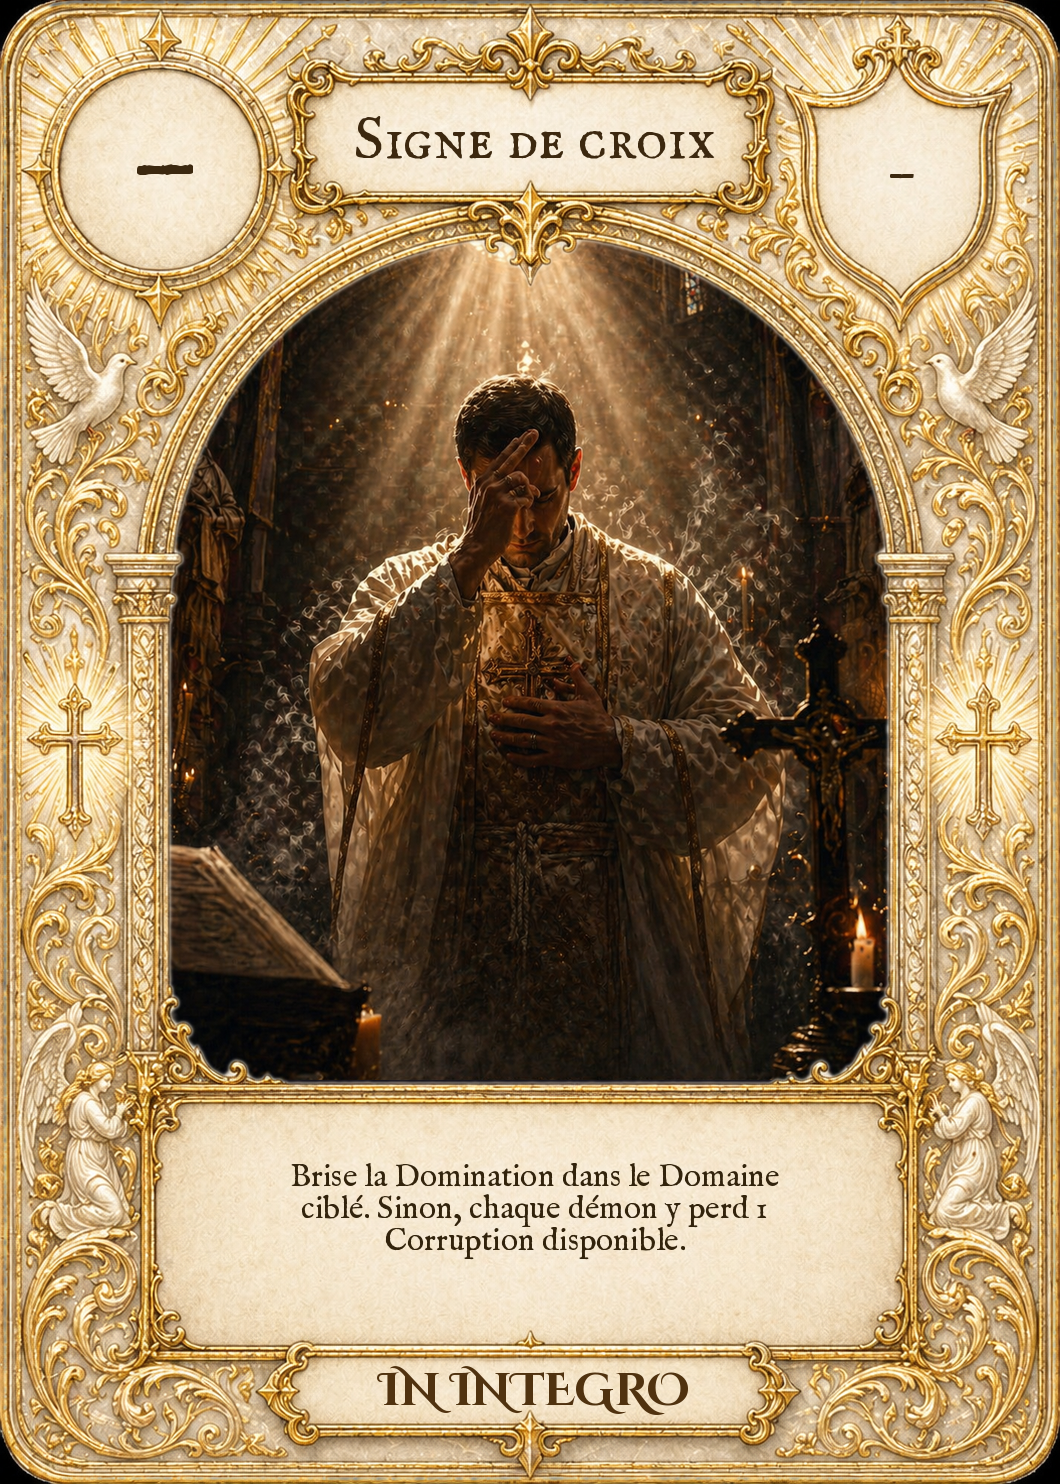
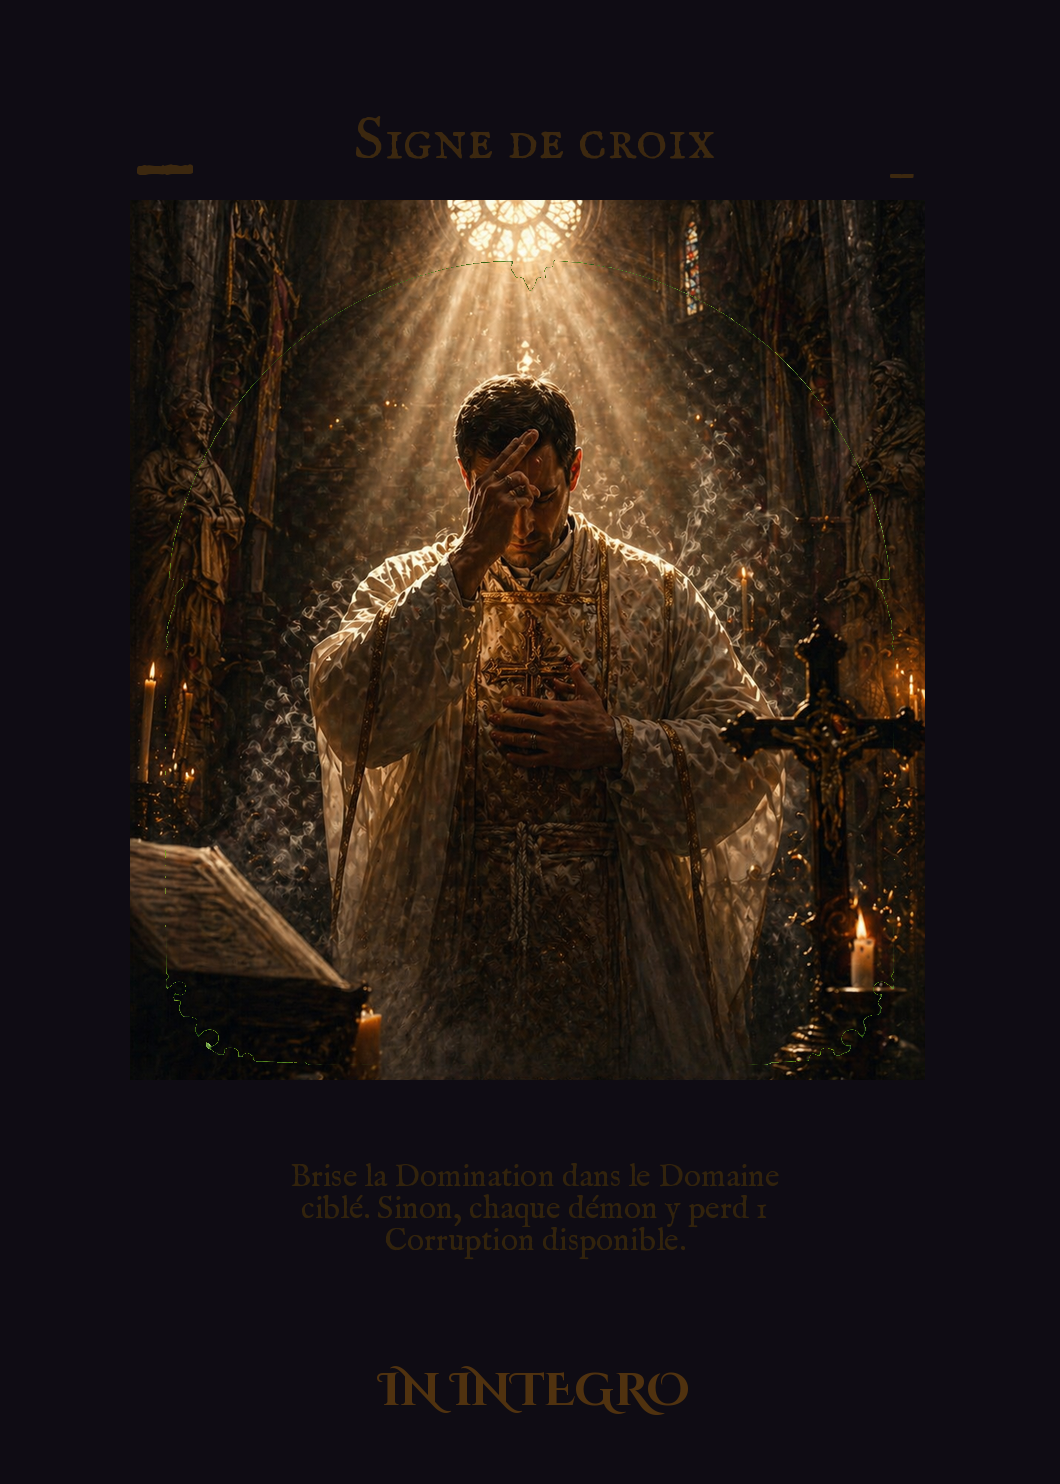
Templates v3 chroma-key vert + nouveau pipeline d'extraction
Templates regénérés par ChatGPT avec fond #00FF00 dans l'arche.

Pipeline simplifié : alpha = clip((150-greenness)*255/100, 0, 255)

+ spill suppression standard (réduit le G résiduel sur les bords).

Anti-aliasing automatique grâce au gradient de couleur en bord d'arche.

https://claude.ai/code/session_011baaC7zEExbd5eSjuzVu4k

diff --git a/tools/extract_arch_alpha.py b/tools/extract_arch_alpha.py
@@ -1,13 +1,11 @@
 #!/usr/bin/env python3
 """
-Convert ChatGPT-generated card templates into RGBA via color keying:
-1. Detect the arch parchment region as a connected component.
-2. Sample the median (key) color of that region.
-3. For each pixel inside the region, alpha is proportional to the
-   euclidean color distance from the key — pixels matching the key
-   are transparent, ornaments (saturated/dark/colored) stay opaque,
-   and intermediate pixels get a graduated semi-transparency.
-4. A 1.5 px gaussian blur on the alpha mask softens the edge.
+Chroma-key extraction: ChatGPT generated the templates with a pure green
+(#00FF00) fill in the arch. We compute a "greenness" score per pixel
+(G - max(R, B)) — pure chroma green = 255, parchment / gold / red ornaments
+= negative — and convert it to alpha. Edges get anti-aliasing for free
+because the green spills slightly into the surrounding ornament during
+rendering.
 
 Usage:
     python3 tools/extract_arch_alpha.py <input.png> <output.png>
@@ -15,67 +13,32 @@ Usage:
 import sys
 from PIL import Image
 import numpy as np
-from scipy.ndimage import label, binary_closing, gaussian_filter
-
-SEARCH_Y = (0.13, 0.74)
-SEARCH_X = (0.13, 0.87)
-CLOSING_ITER = 6
-DIST_TRANSPARENT = 25
-DIST_OPAQUE = 80
-EDGE_BLUR_SIGMA = 1.5
 
 
 def process(in_path: str, out_path: str) -> None:
     img = Image.open(in_path).convert("RGBA")
-    w, h = img.size
     arr = np.array(img).astype(np.int16)
-    R, G, B = arr[:, :, 0], arr[:, :, 1], arr[:, :, 2]
-    maxc = np.maximum(np.maximum(R, G), B)
-    minc = np.minimum(np.minimum(R, G), B)
-    desat = maxc - minc
-    lum = (R + G + B) / 3.0
+    R = arr[:, :, 0]
+    G = arr[:, :, 1]
+    B = arr[:, :, 2]
 
-    parchment = (
-        (R > 165) & (G > 145) & (B > 110)
-        & (R - B > 15) & (R - B < 110)
-        & (lum > 160) & (lum < 248)
-        & (desat < 90)
-    )
-    box = np.zeros_like(parchment, dtype=bool)
-    y0, y1 = int(h * SEARCH_Y[0]), int(h * SEARCH_Y[1])
-    x0, x1 = int(w * SEARCH_X[0]), int(w * SEARCH_X[1])
-    box[y0:y1, x0:x1] = parchment[y0:y1, x0:x1]
-    labeled, _ = label(box)
-    cy, cx = h // 2, w // 2
-    seed = labeled[cy, cx]
-    if seed == 0:
-        for dy in range(0, h, 20):
-            for dx in range(-w // 4, w // 4, 20):
-                yy = cy + dy
-                xx = cx + dx
-                if 0 <= yy < h and 0 <= xx < w and labeled[yy, xx] != 0:
-                    seed = labeled[yy, xx]
-                    break
-            if seed:
-                break
-    arch_zone = labeled == seed if seed else np.zeros_like(labeled, dtype=bool)
-    arch_zone = ~binary_closing(~arch_zone, iterations=CLOSING_ITER)
+    # Greenness: how much green dominates over the brighter of R or B.
+    # Pure #00FF00 → 255, gold (200,160,40) → 160-200=-40, etc.
+    greenness = G - np.maximum(R, B)
 
-    if arch_zone.any():
-        key_R = float(np.median(R[arch_zone]))
-        key_G = float(np.median(G[arch_zone]))
-        key_B = float(np.median(B[arch_zone]))
-    else:
-        key_R, key_G, key_B = 220, 200, 175
+    # Alpha curve:
+    #   greenness >= 150 → α=0   (pure green)
+    #   greenness <= 50  → α=255 (no green domination)
+    #   between          → linear (anti-alias on edges)
+    alpha = np.clip((150 - greenness) * 255 / 100, 0, 255).astype(np.uint8)
 
-    dist = np.sqrt((R - key_R) ** 2 + (G - key_G) ** 2 + (B - key_B) ** 2)
-    alpha_from_dist = np.clip(
-        (dist - DIST_TRANSPARENT) / (DIST_OPAQUE - DIST_TRANSPARENT) * 255,
-        0, 255,
-    )
-    alpha = np.where(arch_zone, alpha_from_dist, 255).astype(np.float32)
-    alpha = gaussian_filter(alpha, sigma=EDGE_BLUR_SIGMA)
-    alpha = np.clip(alpha, 0, 255).astype(np.uint8)
+    # When alpha < 255 we are partially seeing the green; suppress the green
+    # contamination of the visible (bleeding) pixels by reducing the green
+    # channel proportionally to the transparency. Standard "spill suppression".
+    transparent_factor = (255 - alpha) / 255.0   # 1.0 if fully green, 0.0 if opaque
+    new_G = (G - transparent_factor * np.maximum(0, greenness)).clip(0, 255)
+    arr[:, :, 1] = new_G
+
     arr[:, :, 3] = alpha
     Image.fromarray(np.clip(arr, 0, 255).astype(np.uint8), mode="RGBA").save(
         out_path, optimize=True
